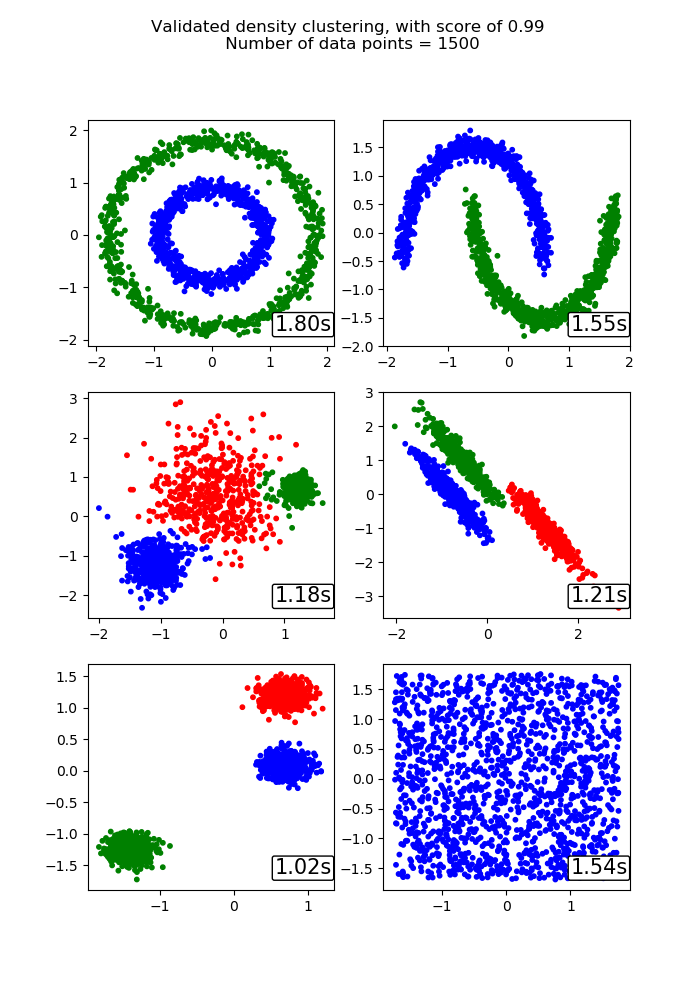
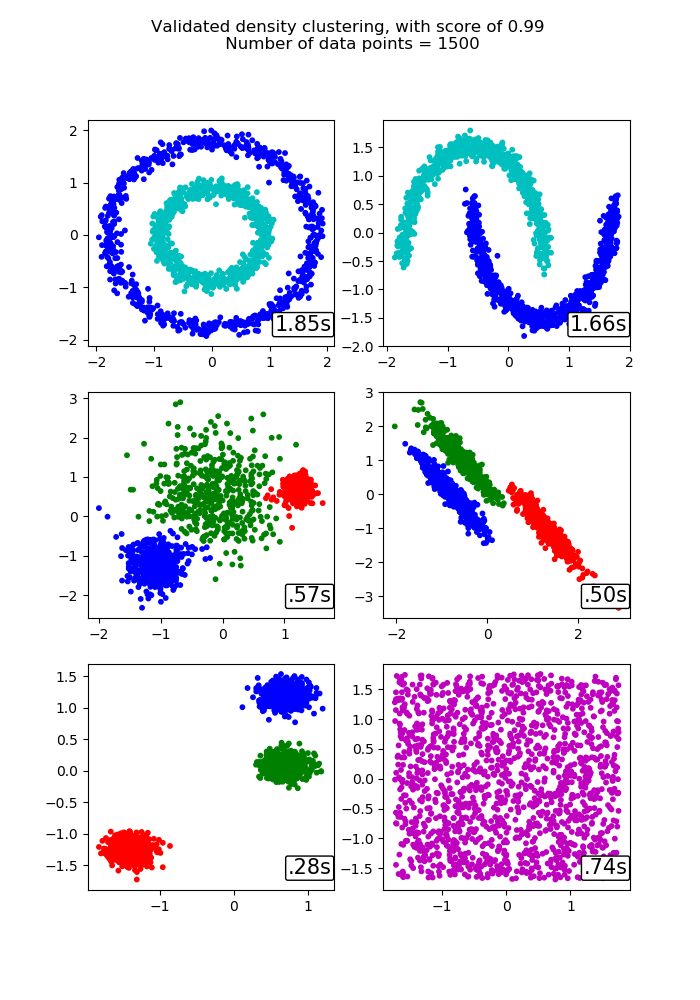
working perfectly, nailed it

diff --git a/fdc/graph.py b/fdc/graph.py
@@ -33,16 +33,16 @@ class DGRAPH:
             if len(nh_cluster) > 1:
                 tmp = list(nh_cluster)
                 tmp.remove(current_label)
-                self.nn_list[current_label] = tmp
+                self.nn_list[current_label] = set(tmp)
             else: # well isolated blob !!
-                self.nn_list[current_label] = []
+                self.nn_list[current_label] = set([])
         
         # symmetrizing neighborhoods (sometimes this is necessary)
 
         for k, nnls in self.nn_list.items():
             for e in nnls:
                 if k not in self.nn_list[e]:
-                    self.nn_list[e].append(k)
+                    self.nn_list[e].add(k)
 
         self.fit_all_clf(model, X)
         return self
@@ -52,7 +52,6 @@ class DGRAPH:
         for center_label, nn_list in self.nn_list.items():
             for nn in nn_list:
                 idx_tuple = (center_label, nn)
-                print(idx_tuple)
                 idx_tuple_reverse = (nn, center_label)
                 if idx_tuple in self.graph.keys():
                     self.graph[idx_tuple_reverse] = self.graph[idx_tuple]
@@ -67,13 +66,13 @@ class DGRAPH:
         """ relabels data according to merging, and recomputing new classifiers for new edges """
         
         idx_1, idx_2 = edge_tuple
-        self.current_n_merge += 1
         pos_1 = (self.init_label == idx_1)
         pos_2 = (self.init_label == idx_2)
         new_cluster_label = self.init_n_cluster + self.current_n_merge
         
         self.init_label[pos_1] = self.init_n_cluster + self.current_n_merge # updating labels !
         self.init_label[pos_2] = self.init_n_cluster + self.current_n_merge # updating labels !
+        self.current_n_merge += 1
 
         # recompute classifiers for merged edge
         new_idx = []
@@ -88,10 +87,36 @@ class DGRAPH:
             idx_to_del.add((idx_2, e))
             new_idx.append(e)
         
+        new_nn_to_add = set([])
+        for k, v in self.nn_list.items():
+            if idx_1 in v:
+                v.remove(idx_1)
+                v.add(new_cluster_label)
+                new_nn_to_add.add(k)
+            if idx_2 in v:
+                v.remove(idx_2)
+                v.add(new_cluster_label)
+                new_nn_to_add.add(k)
+        
+        self.nn_list[new_cluster_label] = set(new_nn_to_add)
+
+        if idx_1 in self.nn_list.keys():
+            del self.nn_list[idx_1]
+        if idx_2 in self.nn_list.keys():
+            del self.nn_list[idx_2]
+        
+        for k,v in self.nn_list.items():
+            if idx_1 in v:
+                v.remove(idx_1)
+            if idx_2 in v:
+                v.remove(idx_2)
+
+        ########################################
+        #########################################        
+
         new_idx.remove(idx_1)
         new_idx.remove(idx_2)
-        
-        #print(self.graph.keys())
+    
         for idxd in idx_to_del:
             del self.graph[idxd]
         
@@ -105,6 +130,41 @@ class DGRAPH:
             self.graph[idx_tuple] = clf
             idx_tuple_reverse = (idx_tuple[1], idx_tuple[0])
             self.graph[idx_tuple_reverse] = self.graph[idx_tuple]
+        
+        k0_update = []
+        k1_update = []
+        for k, v in self.graph.items():
+            if (k[0] == idx_1) or (k[0] == idx_2): # old index still present !
+                k0_update.append(k)        
+            elif (k[1] == idx_1) or (k[1] == idx_2):
+                k1_update.append(k)
+        
+        for k0 in k0_update:
+            self.graph[(new_cluster_label, k0[1])] = self.graph.pop(k0)
+        for k1 in k1_update:
+            self.graph[(k1[0], new_cluster_label)] = self.graph.pop(k1)
+
+    def merge_until_robust(self, X, cv_robust):
+
+        while True:
+            all_robust = True
+            worst_effect_cv = 10
+            worst_edge = -1
+            for edge, clf in self.graph.items():
+                effect_cv = clf.cv_score - clf.cv_score_std
+                if effect_cv < worst_effect_cv:
+                    worst_effect_cv = effect_cv
+                    worst_edge = edge
+                if effect_cv < cv_robust:
+                    all_robust = False
+            
+            if all_robust is False:
+                print('[graph.py] Merging edge %i --- %i with effective score %.4f'%(worst_edge[0],worst_edge[1],worst_effect_cv))
+                #print(self.graph.keys())
+                #print(self.nn_list)
+                self.merge_edge(X, worst_edge)
+            else:
+                break
 
     def classify_edge(self, edge_tuple, X, C=1.0):
         """ Trains a classifier on the childs of "root" and returns a classifier for these types.

diff --git a/example/example4.py b/example/example4.py
@@ -1,0 +1,100 @@
+'''
+Created on Feb 4, 2017
+
+@author: Alexandre Day
+
+    Perform density clustering on some datasets found in the sklearn 
+    documentation on clustering (http://scikit-learn.org/stable/auto_examples/cluster/plot_cluster_comparison.html)
+'''
+
+import time
+import numpy as np
+import matplotlib.pyplot as plt
+
+from sklearn import cluster, datasets
+from sklearn.neighbors import kneighbors_graph
+from sklearn.preprocessing import StandardScaler
+from fdc import FDC, plotting, DGRAPH
+
+np.random.seed(0)
+
+# ============
+# Generate datasets. We choose the size big enough to see the scalability
+# of the algorithms, but not too big to avoid too long running times
+# ============
+n_samples = 1500
+noisy_circles = datasets.make_circles(n_samples=n_samples, factor=.5,
+                                      noise=.05)
+noisy_moons = datasets.make_moons(n_samples=n_samples, noise=.05)
+blobs = datasets.make_blobs(n_samples=n_samples, random_state=8)
+no_structure = np.random.rand(n_samples, 2), None
+
+# Anisotropicly distributed data
+random_state = 170
+X, y = datasets.make_blobs(n_samples=n_samples, random_state=random_state)
+transformation = [[0.6, -0.6], [-0.4, 0.8]]
+X_aniso = np.dot(X, transformation)
+aniso = (X_aniso, y)
+
+# blobs with varied variances
+varied = datasets.make_blobs(n_samples=n_samples,
+                             cluster_std=[1.0, 2.5, 0.5],
+                             random_state=random_state)
+
+colors = np.array([x for x in 'bgrcmykbgrcmykbgrcmykbgrcmyk'])
+colors = np.hstack([colors] * 20)
+
+plot_num = 1
+
+fig= plt.figure(figsize=(7, 10))
+
+#################################
+#################################
+#################################
+#################################
+
+
+"""
+Setting FDC parameters (note these are the same across all datasets)
+"""
+
+noise_threshold = 0.15 # no tuning here
+datasets = [noisy_circles, noisy_moons, varied, aniso, blobs, no_structure]
+cv_score = 0.99
+
+for i_dataset, dataset in enumerate(datasets):
+    X, y = dataset
+    
+    # Always standardize data !
+    X = StandardScaler().fit_transform(X)
+
+    model_fdc = FDC(eta=noise_threshold)
+    graph = DGRAPH()
+
+    s=time.time()
+    model_fdc.fit(X)
+    graph.fit(model_fdc, X)
+    graph.merge_until_robust(X, 0.98)
+    y = graph.init_label
+    
+    dt=time.time()-s
+
+    cluster_label = graph.init_label
+    n_center=len(np.unique(cluster_label))
+
+    plt.subplot(3, 2, plot_num)
+    plt.scatter(X[:, 0], X[:, 1], color=colors[cluster_label].tolist(), s=10, zorder=1)
+
+    plt.text(.99, .07, ('%.2fs' % (dt)).lstrip('0'),
+                 transform=plt.gca().transAxes, size=15,
+                 horizontalalignment='right',zorder=2,
+                bbox=dict(facecolor='white', edgecolor='black', boxstyle='round,pad=0.1')
+                 )
+
+    plot_num+=1
+
+plt.suptitle("Validated density clustering, with score of %.2f \n Number of data points = %i"%(cv_score,n_samples))
+
+plt.savefig("sklearn_datasets_validated.png")
+fig.tight_layout(rect=[0, 0.03, 1, 0.95])
+plt.show()
